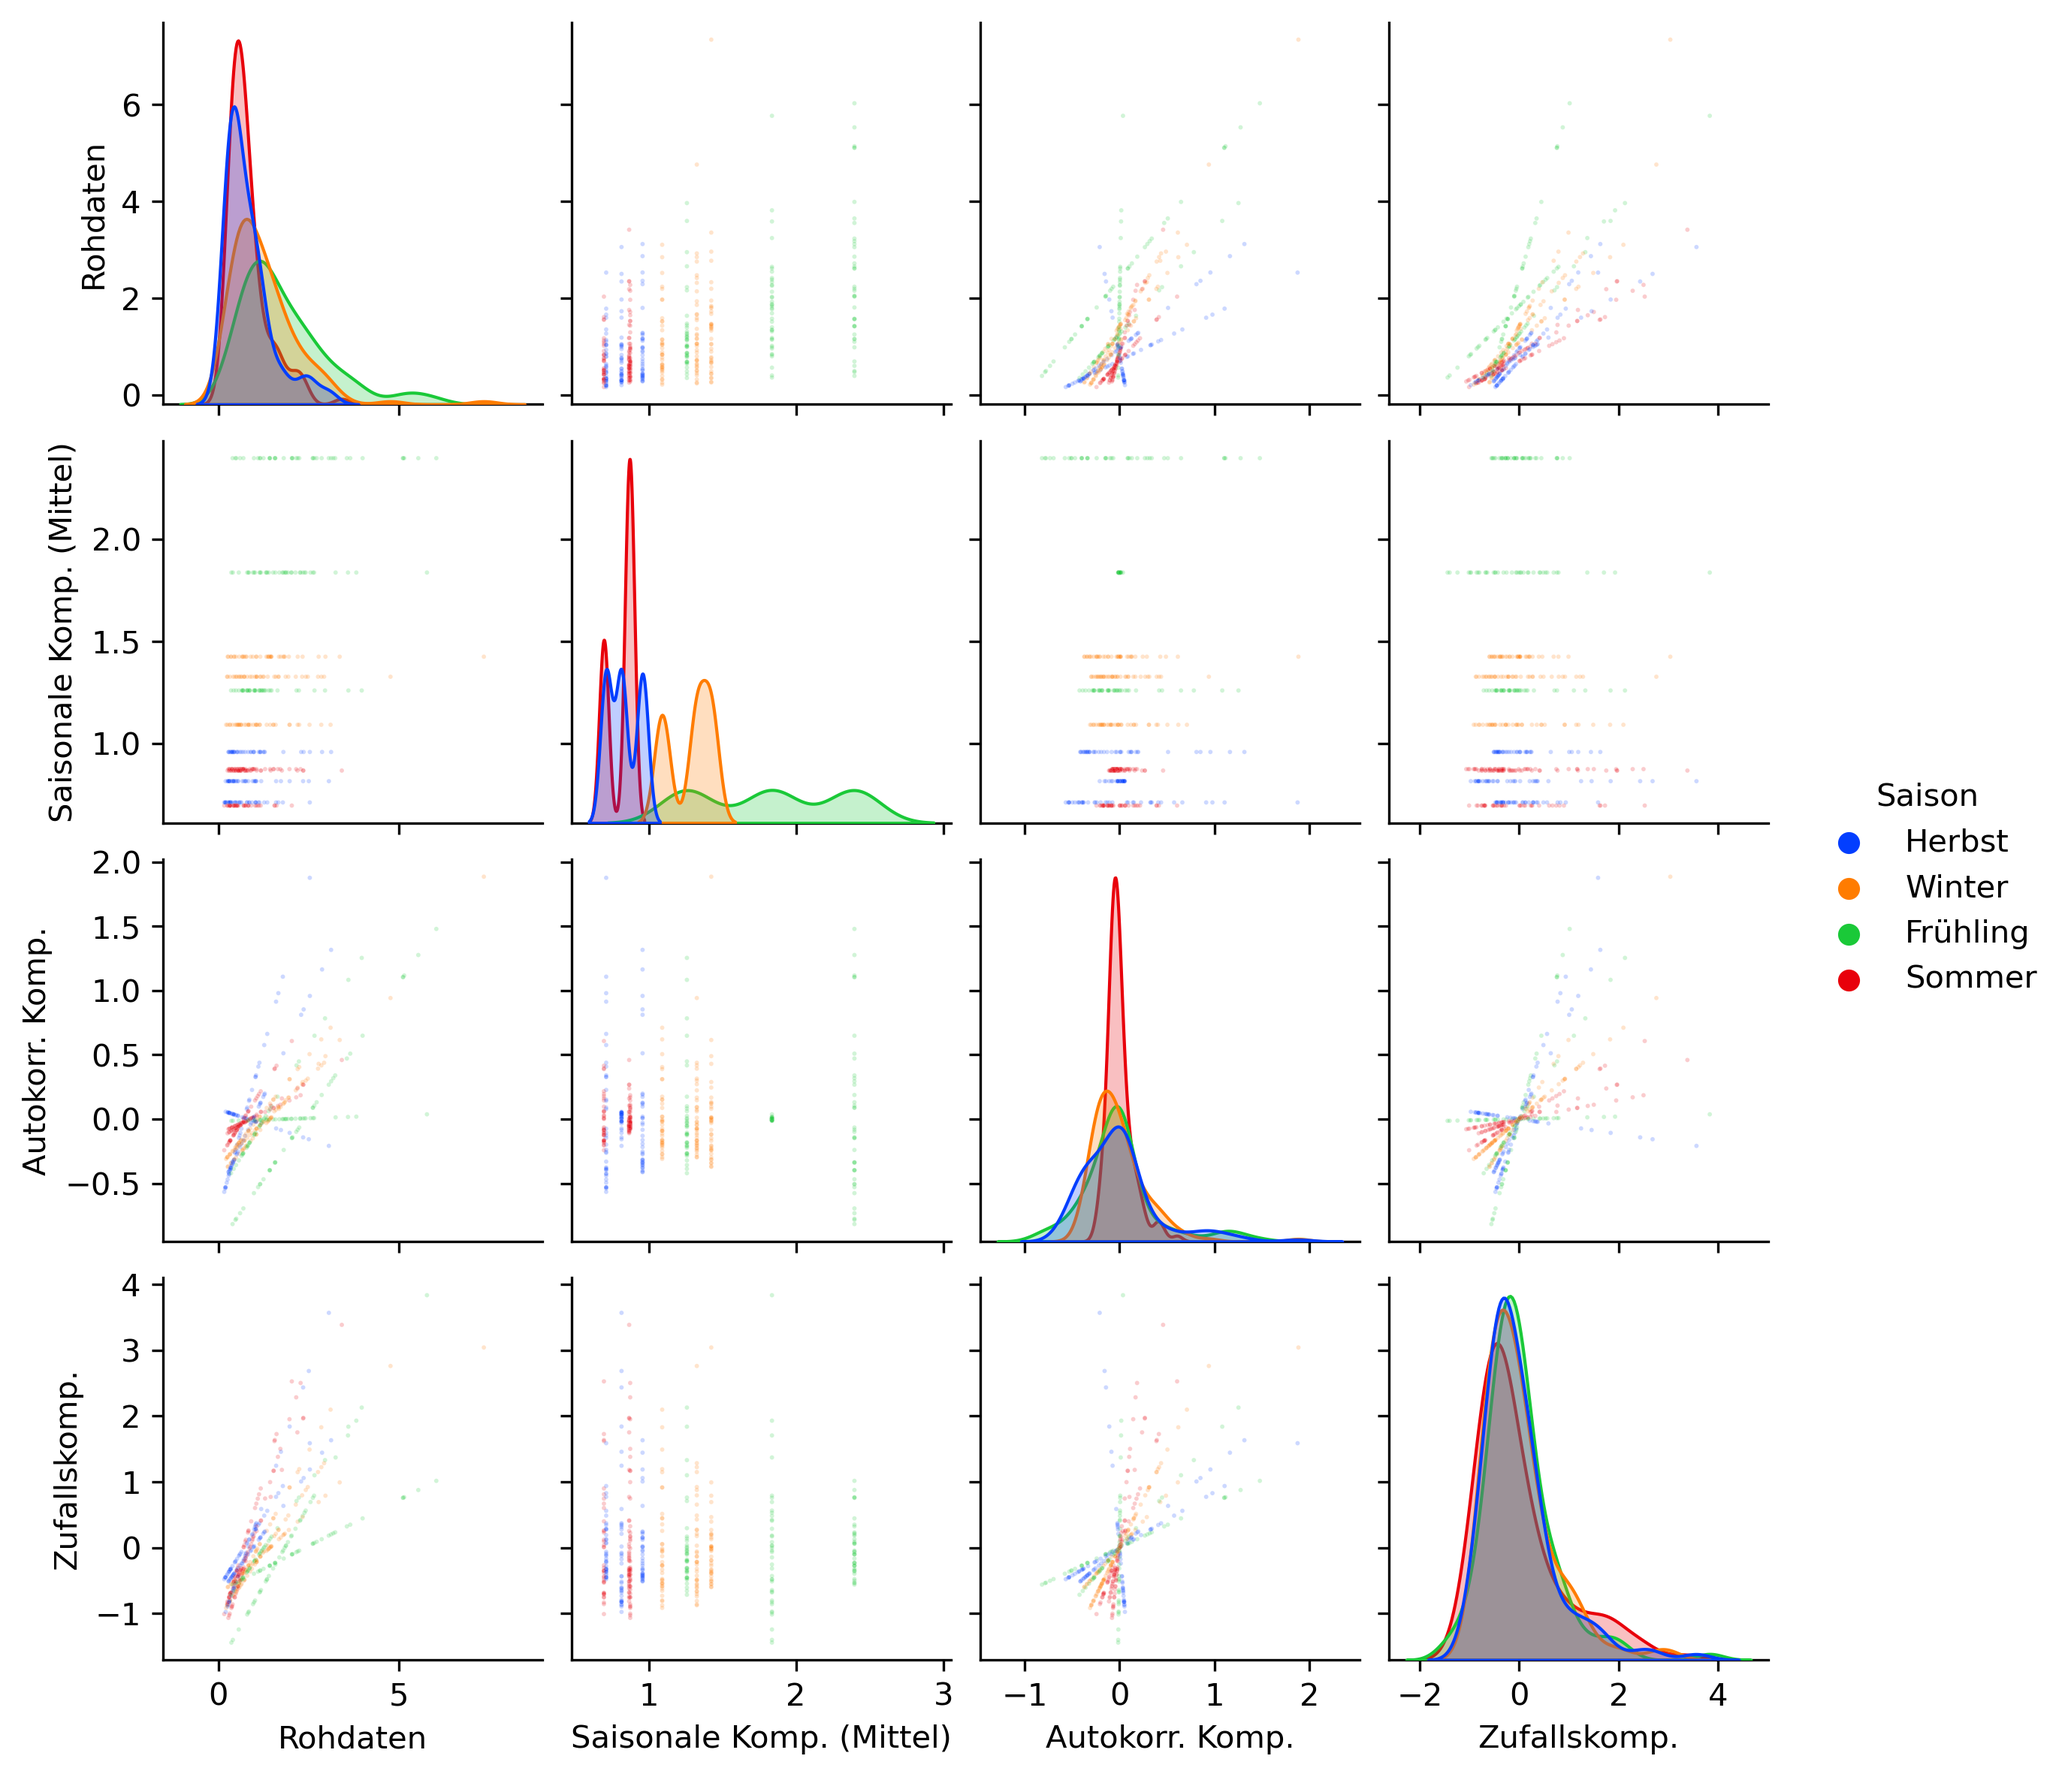
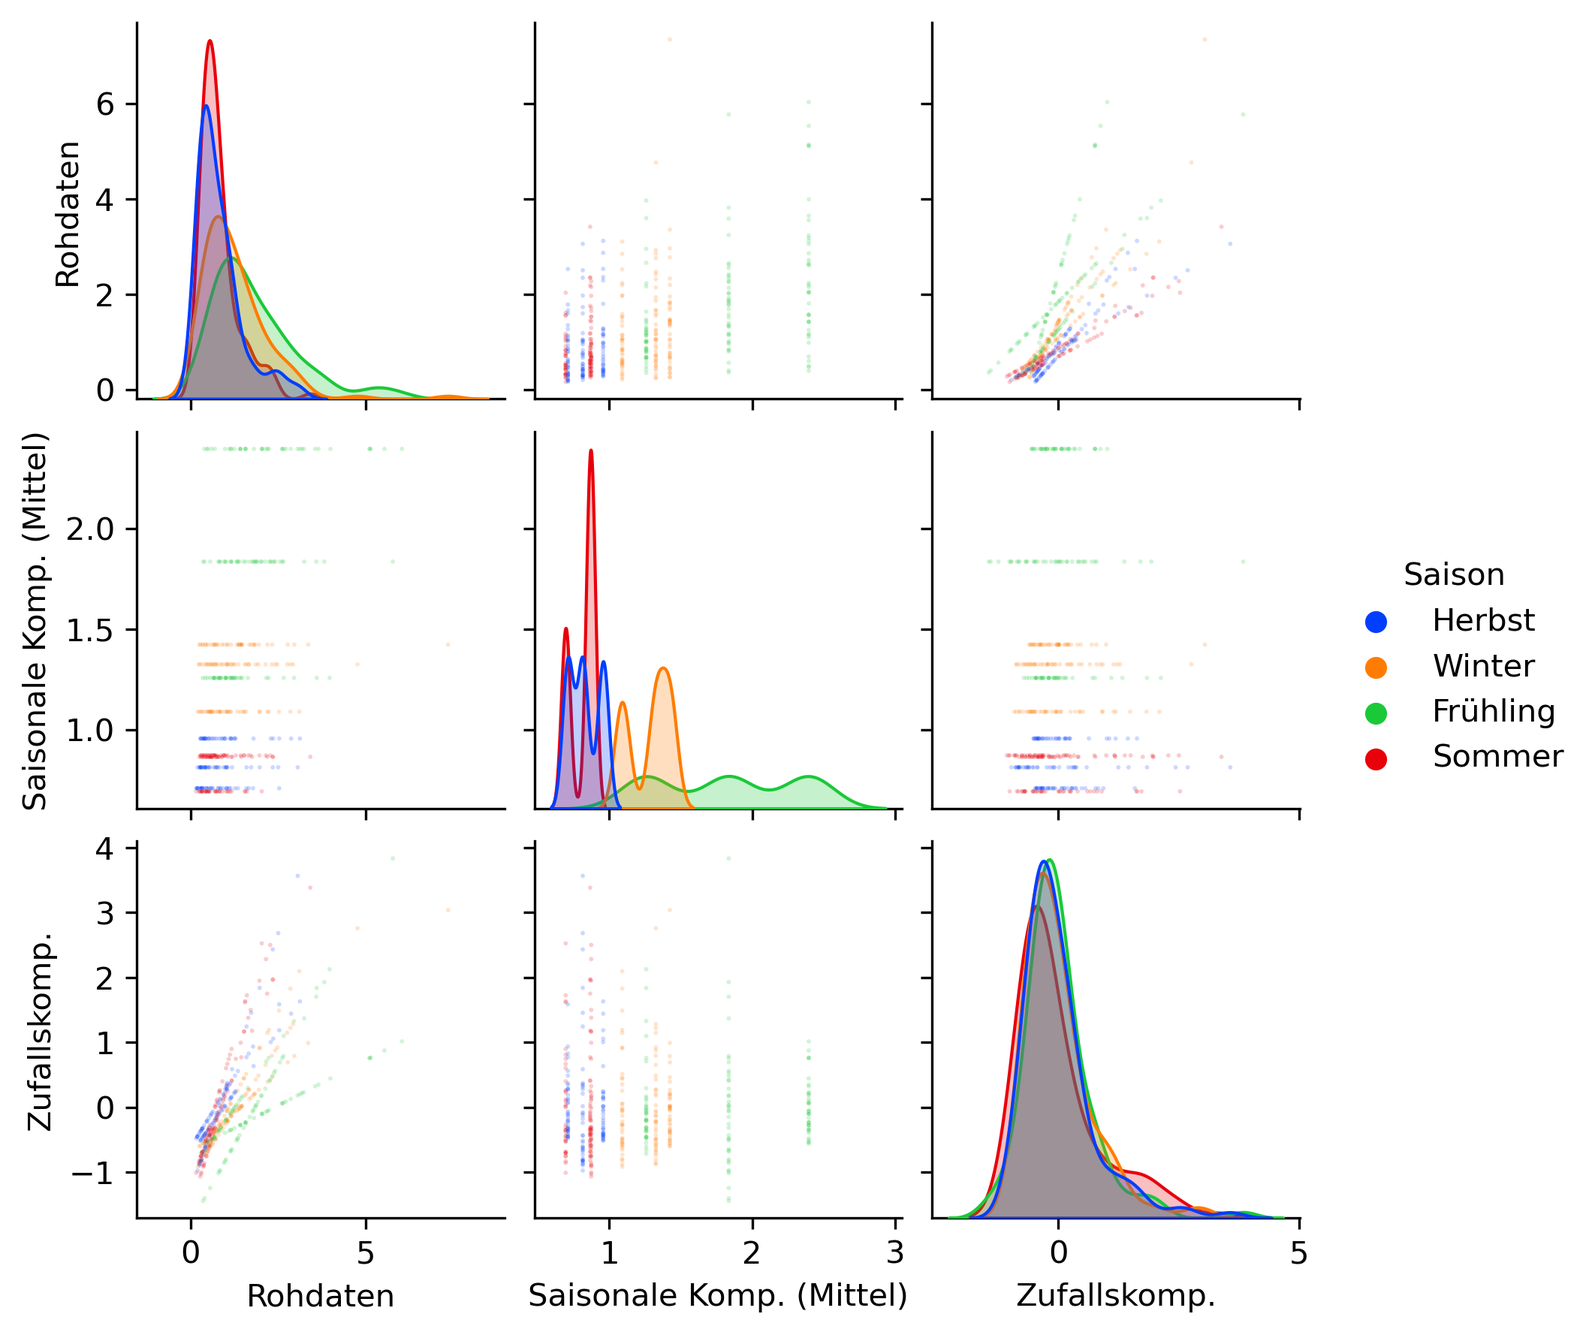
📈 Merge characteristics and hist plots

diff --git a/code/utils/plotting.py b/code/utils/plotting.py
@@ -6,38 +6,33 @@ import scipy
 import seaborn as sns
 
 from config import image_path, pegelname, tu_mediumblue, tu_grey, tu_red, var_remapper
-from utils.statistics import hyd_years, max_val, max_val_month, min_val, \
-    min_val_month, hyd_years, monthly_autocorr, yearly_autocorr, \
-    monthly_mean, yearly_mean, monthly_variance, yearly_variance, \
-    monthly_skewness, yearly_skewness, confidence_interval, \
-    linreg, moving_average, calc_spectrum, get_dominant_frequency, \
-    pettitt_test
+import utils.statistics as st
 
 
 def plot_raw(df: pd.DataFrame):
     """Plot raw data."""
         
-    max_value = max_val(df)
-    max_month = max_val_month(df)
-    min_value = min_val(df)
-    min_month = min_val_month(df)
+    st.max_value = st.max_val(df)
+    max_month = st.max_val_month(df)
+    min_value = st.min_val(df)
+    min_month = st.min_val_month(df)
 
     plt.figure(figsize=(10, 4))
     plt.plot(df["Monat"], df["Durchfluss_m3s"], 
                 c=tu_mediumblue, linewidth=0.8, label="Rohdaten")
-    plt.axhline(y=max_value, c=tu_red, linestyle="--", linewidth=0.8, 
-                label=f"Max: {max_month}: {max_value} m³/s")
+    plt.axhline(y=st.max_value, c=tu_red, linestyle="--", linewidth=0.8, 
+                label=f"Max: {max_month}: {st.max_value} m³/s")
     plt.axhline(y=min_value, c=tu_grey, linestyle="--", linewidth=0.8, 
                 label=f"Min: {min_month}: {min_value} m³/s")
-    plt.scatter(max_month, max_value, marker="o", 
+    plt.scatter(max_month, st.max_value, marker="o", 
                 facecolors='none', edgecolors=tu_red, s=30)
     plt.scatter(min_month, min_value, marker="o", 
                 facecolors='none', edgecolors=tu_grey, s=30)
     plt.xlabel("Monat")
     plt.ylabel("Durchfluss [m³/s]")
     plt.xticks(df["Monat"][::12], rotation=90)
-    plt.yticks(np.arange(0, max_value, 1), minor=False)
-    plt.yticks(np.arange(0, max_value, 0.25), minor=True)
+    plt.yticks(np.arange(0, st.max_value, 1), minor=False)
+    plt.yticks(np.arange(0, st.max_value, 0.25), minor=True)
     plt.grid(which="major", axis="x", color="grey", alpha=0.05)
     plt.grid(which="major", axis="y", color="grey", alpha=0.40)
     plt.grid(which="minor", axis="y", color="grey", alpha=0.05)
@@ -46,22 +41,9 @@ def plot_raw(df: pd.DataFrame):
     plt.legend(loc="upper right")
     plt.savefig(image_path+f"{pegelname}_raw.png", dpi=300, bbox_inches="tight")
 
-def pairplot(df: pd.DataFrame):
-    
-    df = df.rename(columns=var_remapper)
-    df["Monat"] = df["Monat"].str[:2].astype(int)
-    df["Saison"] = df["Monat"].apply(lambda x: "Winter" if x in [12, 1, 2] else
-                                        "Frühling" if x in [3, 4, 5] else
-                                        "Sommer" if x in [6, 7, 8] else
-                                        "Herbst")
-    sns.pairplot(df, height=2, hue="Saison", palette ="bright", 
-                 vars=["Rohdaten", "Saisonale Komp. (Mittel)", \
-                      "Autokorr. Komp.", "Zufallskomp."],
-                 corner=False, plot_kws={"s":2, "alpha":0.2})
-    plt.savefig(image_path+f"{pegelname}_pairplot.png", dpi=300, bbox_inches="tight")
-
 def plot_dsk(test_cumsum: np.ndarray, ref_cumsum: np.ndarray):
     """Plot double sum curve."""
+    
     plt.figure(figsize=(5,5))    
     for i in range(0, len(ref_cumsum), 12):
         plt.scatter(ref_cumsum[i], test_cumsum[i], c=tu_mediumblue, s=15,
@@ -76,21 +58,17 @@ def plot_dsk(test_cumsum: np.ndarray, ref_cumsum: np.ndarray):
     plt.ylabel("Kumulierter Durchfluss [m³/s] der Prüfreihe")
     plt.xlim(left=0)
     plt.ylim(bottom=0)
-    # plt.legend(loc="upper left", bbox_to_anchor=(-0.02, 1.15), frameon=False)
     plt.savefig(image_path+f"{pegelname}_dsk.png", dpi=300, bbox_inches="tight")
 
 def plot_breakpoint(df: pd.DataFrame):
-    res = pettitt_test(df)
-
+    """Plot breakpoint analysis."""
+    
+    res = st.pettitt_test(df)
     mean_1, mean_2 = res.avg
     
     plt.figure(figsize=(10, 4))
-    
-    # plot raw data
     plt.plot(df["Monat"], df["Durchfluss_m3s"], alpha=0.4,
                 c=tu_mediumblue, linewidth=0.8, label="Rohdaten")
-
-    # plot breakpoint    
     plt.axvline(x=res.cp, c="green", linestyle="--", linewidth=0.8,
                 label=f"Breakpoint: {df['Monat'].iloc[res.cp]}")
     plt.text(res.cp-5, 6.05, df["Monat"].iloc[res.cp], rotation=90, 
@@ -130,21 +108,22 @@ def plot_breakpoint(df: pd.DataFrame):
 
 def plot_trend(df: pd.DataFrame):
     """Plot trend analysis summary."""
+    
     fig, (ax1, ax2) = plt.subplots(nrows=2, ncols=1, figsize=(10, 7))
     
-    years = hyd_years(df)
+    years = st.hyd_years(df)
     x_yearly = years
     x_monthly = np. arange(years[0], years[-1]+1, 1/12)
     
     # raw data
     ax1.plot(df["Monat"], df["Durchfluss_m3s"], c=tu_grey, linewidth=0.8, 
              alpha=0.3, marker="o", markersize=2, label="Monatswerte (Rohdaten)")
-    ax2.plot(x_yearly, yearly_mean(df), c=tu_grey, linewidth=0.8, 
+    ax2.plot(x_yearly, st.yearly_mean(df), c=tu_grey, linewidth=0.8, 
              alpha=0.3, marker="o", markersize=3, label="Jahreswerte (arith. Mittel)")
     
     # linear regression
-    linreg_m = linreg(df, which="monthly")
-    linreg_y = linreg(df, which="yearly")
+    linreg_m = st.linreg(df, which="monthly")
+    linreg_y = st.linreg(df, which="yearly")
     linreg_m_func = f"y = {linreg_m.slope:.5f}x + {linreg_m.intercept:.5f}"
     linreg_y_func = f"y = {linreg_y.slope:.5f}x + {linreg_y.intercept:.5f}"
 
@@ -165,8 +144,8 @@ def plot_trend(df: pd.DataFrame):
                 label=f"Theil-Sen-Regression {mk_y_func}")
     
     # moving average
-    ma_m = moving_average(df, which="monthly", window=12)
-    ma_y = moving_average(df, which="yearly", window=5)
+    ma_m = st.moving_average(df, which="monthly", window=12)
+    ma_y = st.moving_average(df, which="yearly", window=5)
     
     ax1.plot(df["Monat"][5:-6], ma_m, c=tu_mediumblue, lw=0.8,
                 label=f"Gleitender Durchschnitt (Fensterbreite: 1a)")
@@ -174,7 +153,6 @@ def plot_trend(df: pd.DataFrame):
                 label=f"Gleitender Durchschnitt (Fensterbreite: 5a)")
     
     ax1.set_ylim([0,8])
-    # ax1.set_xlabel("Zeit (Monate)")
     ax1.set_xticks(df["Monat"][::12], minor=False)
     ax1.set_xticklabels(df["Monat"][::12], rotation=90)
     ax1.set_yticks(np.arange(0, 8.5, 0.5), minor=True)
@@ -203,7 +181,7 @@ def plot_trend(df: pd.DataFrame):
 def plot_spectrum(df: pd.DataFrame):
     """Plot FFT spectrum"""
     
-    freqs, spectrum = calc_spectrum(df)
+    freqs, spectrum = st.calc_spectrum(df)
     
     _, ax1 = plt.subplots(figsize=(10, 5))
     ax1.plot(freqs[1:], spectrum[1:], c=tu_mediumblue)
@@ -223,7 +201,7 @@ def plot_spectrum(df: pd.DataFrame):
 def plot_sin_waves(df):
     """Plot the dominant frequencies as sin waves."""
 
-    freqs, period = get_dominant_frequency(*calc_spectrum(df), n=5)
+    freqs, period = st.get_dominant_frequency(*st.calc_spectrum(df), n=5)
     freqs = freqs[:-1] # del mean
     period = period[:-1] # del mean
     x = np.linspace(0, 12*2*np.pi, 1000)
@@ -255,89 +233,88 @@ def plot_sin_waves(df):
     ax.legend()
     plt.savefig(image_path+f"{pegelname}_sin.png", dpi=300, bbox_inches="tight")
 
-def plot_hist(df: pd.DataFrame):
-    """Plot histogram of raw data."""
-    
-    _, ax = plt.subplots(nrows=1, ncols=3, figsize=(15, 4),
-                           sharex=True, sharey=True)
-    
-    bins = np.arange(-2, 8, 0.25)
-
-    ax[0].hist(df["Durchfluss_m3s"], bins=bins, color=tu_grey, lw=0.8, edgecolor="black", alpha=0.8)
-    ax[1].hist(df["saisonber"], bins=bins, color=tu_mediumblue, lw=0.8, edgecolor="black", alpha=0.8)
-    ax[2].hist(df["zufall"], bins=bins, color=tu_red, lw=0.8, edgecolor="black", alpha=0.8)
-    
-    ax[0].set_ylabel("empirische Häufigkeit")
-    ax[0].set_xlabel("Durchfluss der Rohdaten [m³/s]")
-    ax[1].set_xlabel("Saisonbereinigter Durchfluss [m³/s]")
-    ax[2].set_xlabel("Zufallskomponente des Durchflusses [m³/s]")
-    
-    for i in range(len(ax)):
-        ax[i].set_xticks(np.arange(-2, 8, 1), minor=False)
-        ax[i].set_xticks(np.arange(-2, 8, 0.25), minor=True)
-        ax[i].set_yticks(np.arange(0, 120, 10), minor=False)
-        ax[i].set_yticks(np.arange(0, 122.5, 2.5), minor=True)
-        ax[i].grid(which="minor", axis="y", color="grey", alpha=0.05)
-        ax[i].grid(which="major", axis="y", color="grey", alpha=0.40)
-        ax[i].grid(which="minor", axis="x", color="grey", alpha=0.05)
-        ax[i].grid(which="major", axis="x", color="grey", alpha=0.40)
-    
-    plt.savefig(image_path+f"{pegelname}_hist.png", dpi=300, bbox_inches="tight")
-
 def plot_characteristics(df: pd.DataFrame):
-    """Plot monthly mean and median (Saisonfigur)."""
+    """Plot statistics and histograms for different components."""
     
-    _, ax = plt.subplots(nrows=2, ncols=4, figsize=(13, 6))
+    _, ax = plt.subplots(nrows=3, ncols=4, figsize=(13, 10))
+    labels = ["Rohdaten", "Zufallskomponente"]
+    vars = ["Durchfluss_m3s", "zufall"]
+    colors = [tu_grey, "orange"]
+    ylabels = ["Arith. Mittel (m³/s)", "Varianz (m³/s)²", "Schiefe (-)", "Autokorrelation $r_{1}$(-)"]
+    letters = ["A.", "B.", "C.", "D.", "E.", "F.", "G.", "H.", "I.", "J.", "K.", "L."]
     
-    labels = ["Rohdaten", "Saisonbereinigte Zeitreihe", "Zufallskomponente"]
-    vars = ["Durchfluss_m3s", "saisonber", "zufall"]
-    colors = [tu_grey, tu_mediumblue, tu_red]
-    titles = ["Arith. Mittel (m³/s)", "Varianz (m³/s)²", "Schiefe (-)", "Autokorrelation $r_{1}$(-)"]
-
     for i in range(len(labels)):
         var, label, color = vars[i], labels[i], colors[i]
 
         x_months = np.arange(1, 13)
-        x_years = hyd_years(df)
+        x_years = st.hyd_years(df)
         
-        ax[0,0].plot(x_months, monthly_mean(df, var=var),
+        # upper row plots
+        ax[0,0].plot(x_months, st.monthly_mean(df, var=var),
                     c=color, linewidth=1, label=label)
-        ax[0,1].plot(x_months, monthly_variance(df, var=var),
+        ax[0,1].plot(x_months, st.monthly_variance(df, var=var),
                     c=color, linewidth=1, label=label)
-        ax[0,2].plot(x_months, monthly_skewness(df, var=var),
+        ax[0,2].plot(x_months, st.monthly_skewness(df, var=var),
                     c=color, linewidth=1, label=label)
-        ax[0,3].plot(x_months, monthly_autocorr(df, which="pearson"),
-                    c=color, linewidth=1, label=label)
-        
-        ax[1,0].plot(x_years, yearly_mean(df, var=var),
-                    c=color, linewidth=1, label=label)
-        ax[1,1].plot(x_years, yearly_variance(df, var=var),
-                    c=color, linewidth=1, label=label)
-        ax[1,2].plot(x_years, yearly_skewness(df, var=var),
-                    c=color, linewidth=1, label=label)
-        ax[1,3].plot(x_years, yearly_autocorr(df, lag=1),
+        ax[0,3].plot(x_months, st.monthly_autocorr(df, which="pearson"),
                     c=color, linewidth=1, label=label)
         
+        # middle row plots
+        ax[1,0].plot(x_years, st.yearly_mean(df, var=var),
+                    c=color, linewidth=1, label=label)
+        ax[1,1].plot(x_years, st.yearly_variance(df, var=var),
+                    c=color, linewidth=1, label=label)
+        ax[1,2].plot(x_years, st.yearly_skewness(df, var=var),
+                    c=color, linewidth=1, label=label)
+        ax[1,3].plot(x_years, st.yearly_autocorr(df, lag=1),
+                    c=color, linewidth=1, label=label)
+        
+        # lower row plots
+        hist_kwargs = {"bins": np.arange(-2, 8, 0.25), "lw": 0.8, "edgecolor": "black", "alpha": 0.8}
+        ax[2,i].hist(df[vars[i]], color=colors[i], label=labels[i], **hist_kwargs)
+    
     for row_i in range(len(ax)):
         for col_i in range(len(ax[row_i])):
+            ax[row_i, col_i].set_title(letters[row_i*len(ax[row_i])+col_i], loc='left', fontsize=12, fontweight="bold")
+            ax[row_i, col_i].grid()
             ax[0, col_i].set_xlabel("Monat")
+            ax[1, col_i].set_xlabel("Jahre")
+            ax[2, col_i].set_xlabel("Durchfluss [m³/s]")
+            ax[2, col_i].set_ylabel("Emp. Häufigkeit")
+            ax[0, col_i].set_ylabel(ylabels[col_i])
+            ax[1, col_i].set_ylabel(ylabels[col_i])
             ax[0, col_i].set_xticks(x_months)
             ax[0, col_i].set_xticklabels(["N", "D", "J", "F", "M", "A", "M", "J", "J", "A", "S", "O"])
-            ax[1, col_i].set_xlabel("Jahre")
             ax[1, col_i].set_xticks([1960, 1970, 1980, 1990, 2000])
             ax[1, col_i].set_xticklabels([1960, 1970, 1980, 1990, 2000])
-            ax[0, col_i].set_title(titles[col_i])
-            ax[row_i, col_i].grid()
-            ax[1,0].legend(bbox_to_anchor=(0.8, -0.3), ncol=1, frameon=False)
-
+            ax[2, col_i].set_ylim([0, 130])
+            ax[2, col_i].legend(frameon=False, loc="upper left")
+            
+    ax[2,2].set_visible(False)
+    ax[2,3].set_visible(False)
     plt.tight_layout()
     plt.savefig(image_path+f"{pegelname}_characteristics.png", dpi=300, bbox_inches="tight")    
 
+def pairplot(df: pd.DataFrame):
+    """Plot pairplot."""
+    
+    df = df.rename(columns=var_remapper)
+    df["Monat"] = df["Monat"].str[:2].astype(int)
+    df["Saison"] = df["Monat"].apply(
+        lambda x: "Winter" if x in [12, 1, 2] else
+        "Frühling" if x in [3, 4, 5] else
+        "Sommer" if x in [6, 7, 8] else "Herbst")
+    sns.pairplot(df, height=2, hue="Saison", palette ="bright", 
+                 vars=["Rohdaten", "Saisonale Komp. (Mittel)", "Zufallskomp."], #  "Saisonale Komp. (Mittel)", "Autokorr. Komp.", 
+                 corner=False, plot_kws={"s":2, "alpha":0.2})
+    plt.savefig(image_path+f"{pegelname}_pairplot.png", dpi=300, bbox_inches="tight")
+    
 def plot_acf(df: pd.DataFrame, var: str = "normiert"):
     """Plots the autocorrelation function."""
+    
     lags = np.arange(0,51,1)
     ac = [df[var].autocorr(lag=i) for i in lags]
-    lower_conf, upper_conf = confidence_interval(df, lags)
+    lower_conf, upper_conf = st.confidence_interval(df, lags)
     
     _, ax = plt.subplots(figsize=(10, 5))
     ax.plot(lags, ac, marker="o", markersize=3, color=tu_mediumblue, lw=1, zorder=1)
@@ -369,10 +346,10 @@ def plot_acf(df: pd.DataFrame, var: str = "normiert"):
 def plot_components(
         df: pd.DataFrame
     ):
-    
+    """Plot time series components."""
+
     _, ax = plt.subplots(nrows=9, ncols=1, figsize=(10,15), 
                            sharex=True, sharey=False)
-
     plot_config = {
         "Durchfluss_m3s": ("A.", "Rohdaten", tu_grey, [0, 8]),
         "trend": ("B.", "Trendkomponente (nicht sig.)", tu_red, [-0.1, 0.1]),
@@ -382,7 +359,7 @@ def plot_components(
         "normiert": ("F.", "Normierte Zeitreihe", tu_mediumblue, [-2, 8]),
         "autokorr_saisonfigur": ("G.", "Autokorrelation (Saisonfigur)", "green", [-0.5, 1]),
         "autokorr": ("H.", "Autokorrelative Komponente", "green", [-2, 3]),
-        "zufall": ("I.", "Zufallskomponente / Residuum", "green", [-2, 5])
+        "zufall": ("I.", "Zufallskomponente / Residuum", "orange", [-2, 5])
     }
 
     for i in range(len(plot_config)):
@@ -396,7 +373,6 @@ def plot_components(
         ax[i].set_xticks(df["Monat"][::12])
         ax[i].set_xticklabels(df["Monat"][::12], rotation=90)
         ax[i].set_xlim(left=df["Monat"].min(), right=df["Monat"].max())
-        # TODO: ylabels
     
     plt.tight_layout()
     plt.savefig(image_path+f"{pegelname}_components.png", dpi=300, bbox_inches="tight")

diff --git a/code/main.py b/code/main.py
@@ -1,12 +1,12 @@
 import numpy as np
 import pandas as pd
 
-from config import pegelname, report_path, image_path, fn_results
+from config import report_path, image_path, fn_results
 
 from utils.data_structures import read_data, check_path
 import utils.statistics as st
 from utils.consistency_check import missing_values, missing_dates, duplicates
-from utils.plotting import plot_raw, plot_hist, plot_trend, plot_components, \
+from utils.plotting import plot_raw, plot_trend, plot_components, \
     plot_spectrum, plot_sin_waves, plot_characteristics, plot_acf, plot_dsk, \
     plot_breakpoint, pairplot
 
@@ -109,7 +109,6 @@ plot_components(df)
 
 # TODO: #9 Fit distribution to data
 plot_raw(df)
-plot_hist(df)
 plot_characteristics(df)
 pairplot(df)
 
